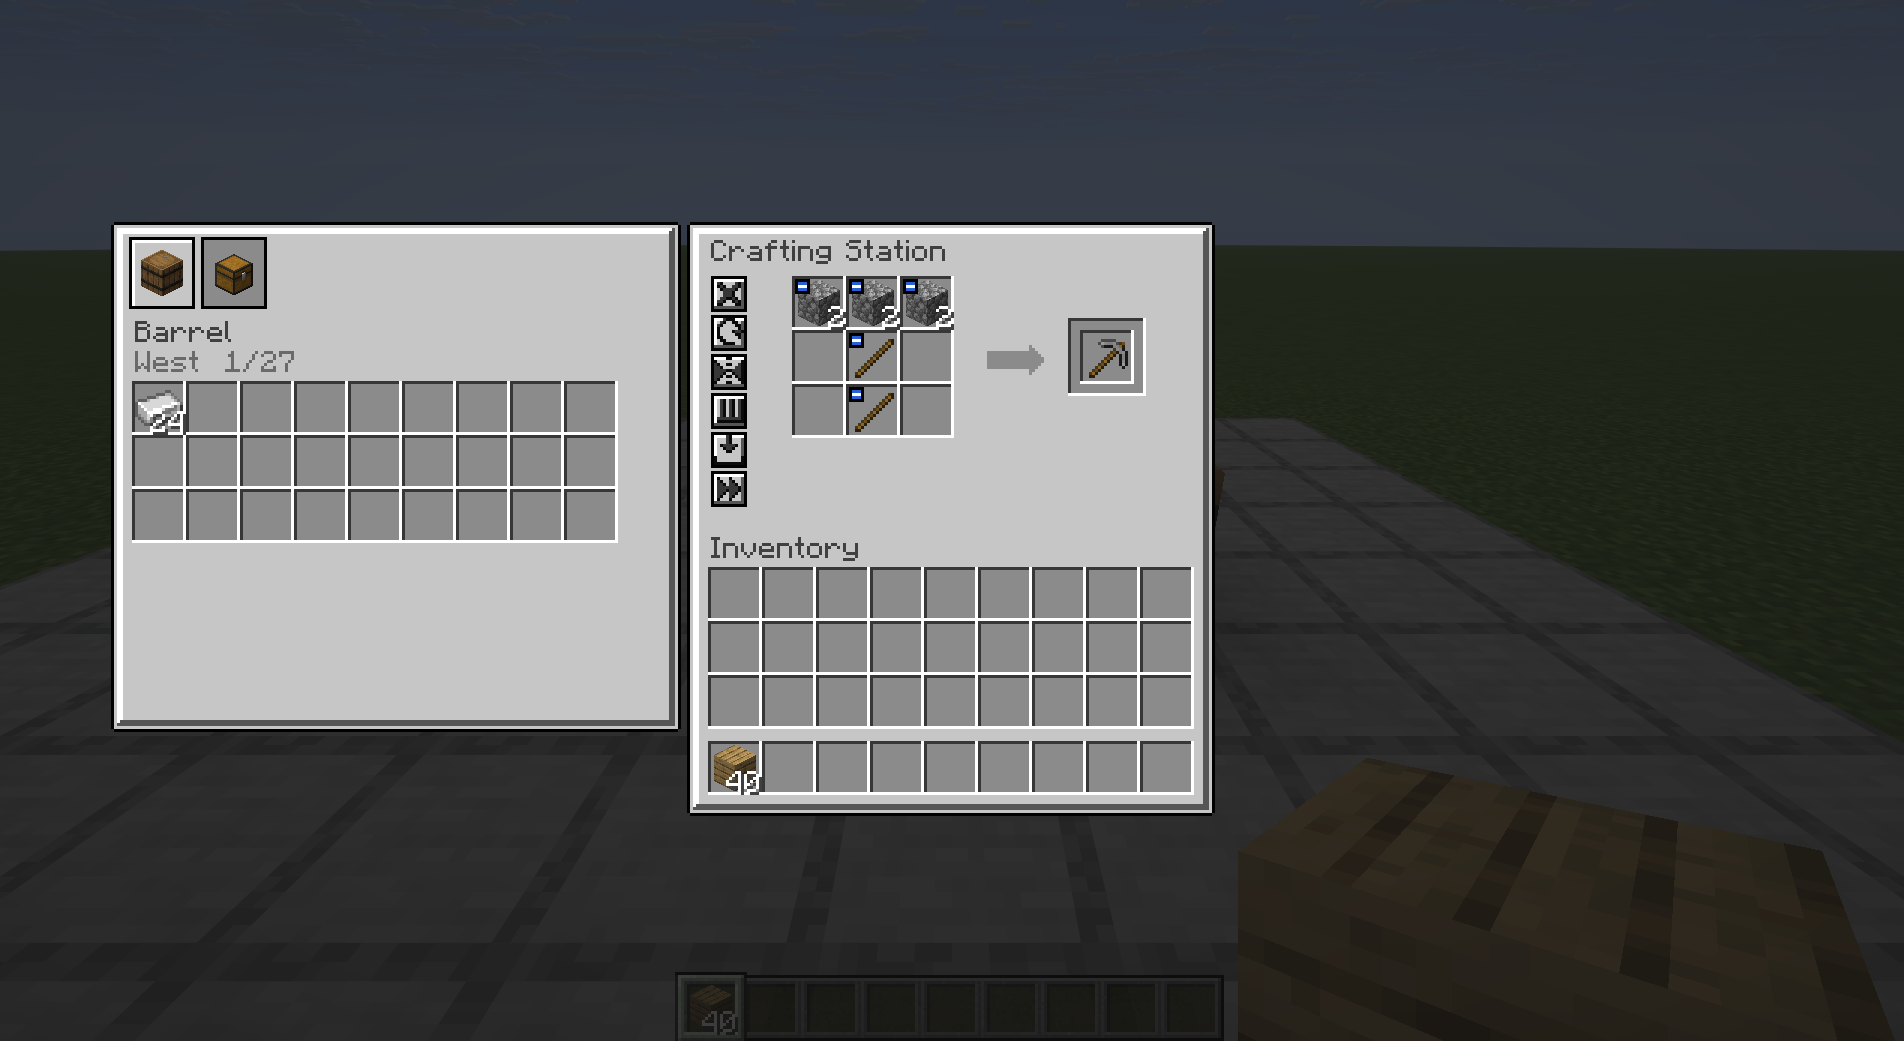
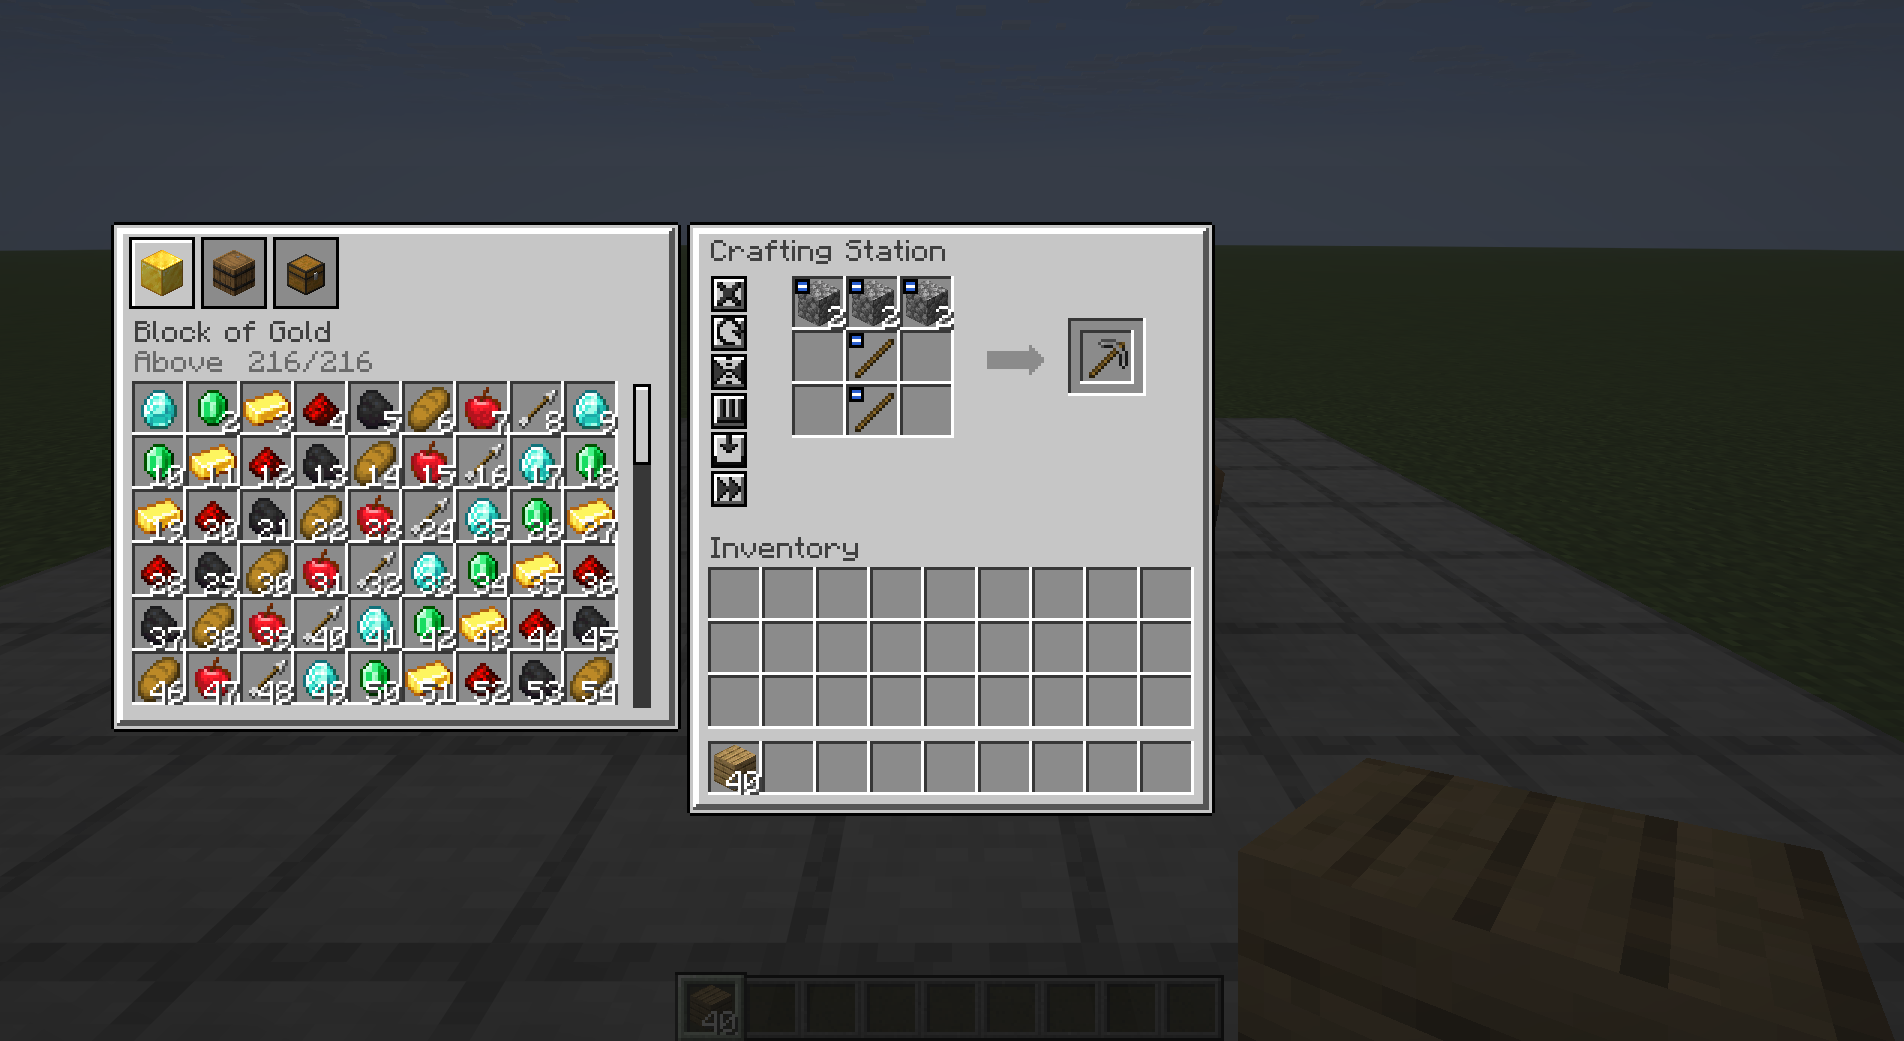
Tour: scrolled Connected panel next to a 216-slot dev storage; status

Changed region(s): [[0.062, 0.2152, 0.3409, 0.6763]]

diff --git a/version-26.2/src/dev/java/com/itmecasey/barelycrafting/dev/ShotTour.java b/version-26.2/src/dev/java/com/itmecasey/barelycrafting/dev/ShotTour.java
@@ -1,6 +1,8 @@
 package com.itmecasey.barelycrafting.dev;
 
 import com.itmecasey.barelycrafting.Dev;
+import com.itmecasey.barelycrafting.ExternalInventory;
+import com.itmecasey.barelycrafting.Inventories;
 import com.itmecasey.barelycrafting.ModContent;
 import com.itmecasey.barelycrafting.block.StationBlockEntity;
 import com.itmecasey.barelycrafting.menu.StationMenu;
@@ -158,6 +160,8 @@ public final class ShotTour {
         });
         then(4, () -> {
             server("fill -4 " + (y - 1) + " -4 6 " + (y - 1) + " 4 minecraft:smooth_stone");
+            installBigStorage();
+            server("setblock 0 " + (y + 1) + " 0 minecraft:gold_block");
             server("setblock 0 " + y + " 0 barelycrafting:crafting_station", "setblock 1 " + y + " 0 minecraft:chest[facing=west]",
                     "setblock -1 " + y + " 0 minecraft:barrel[facing=up]");
         });
@@ -192,7 +196,7 @@ public final class ShotTour {
         shoot("gui_tooltip_mirror", 50);
         // Rotate with the real button, then craft everything through the result slot.
         then(3, () -> hoverGuiAway());
-        then(3, () -> press(StationMenu.BTN_TAB + 1));
+        then(3, () -> press(StationMenu.BTN_TAB + 2));
         shoot("gui_chest_tab", 25);
         then(3, () -> press(StationMenu.BTN_ROTATE));
         shoot("gui_after_rotate", 25);
@@ -225,8 +229,65 @@ public final class ShotTour {
             LOGGER.info("BARELYCRAFTING-SHOTS after shift-click: pickaxes={} cobbleInChest={} gridEmpty={}", pick, cobble, be.grid.isEmpty());
         }));
         shoot("gui_after_craft", 15);
+        // The big storage: its tab, then the wheel scrolls its window down to row 12 and the mouse rests on an item.
+        then(3, () -> press(StationMenu.BTN_TAB));
+        then(15, () -> wheel(12));
+        then(25, () -> hoverViewSlot(10));
+        then(40, () -> LOGGER.info("BARELYCRAFTING-SHOTS big storage scroll row={} tab={} first={}", menu().viewScroll(), menu().selectedTab(), menu().slots.get(StationMenu.PLAYER_END).getItem()));
+        shoot("gui_scrolled_big_storage", 10);
         then(2, () -> close());
         then(20, () -> quit(Minecraft.getInstance()));
+    }
+
+    /** A dev-only 216-slot storage standing in for a modded one (vanilla has nothing over 54 slots). Read-only: nothing can be taken or put in. */
+    private static final class BigStorage implements ExternalInventory {
+        private static final net.minecraft.world.item.Item[] ITEMS = {Items.DIAMOND, Items.EMERALD, Items.GOLD_INGOT, Items.REDSTONE, Items.COAL, Items.BREAD, Items.APPLE, Items.ARROW};
+
+        @Override
+        public int slots() {
+            return 216;
+        }
+
+        @Override
+        public ItemStack get(int slot) {
+            return new ItemStack(ITEMS[slot % ITEMS.length], slot % 63 + 1);
+        }
+
+        @Override
+        public ItemStack insert(ItemStack stack, boolean simulate) {
+            return stack;
+        }
+
+        @Override
+        public ItemStack extract(int slot, int amount, boolean simulate) {
+            return ItemStack.EMPTY;
+        }
+    }
+
+    private static void installBigStorage() {
+        Inventories.Finder base = Inventories.loaderFinder;
+        Inventories.loaderFinder = (level, pos, face) -> level.getBlockState(pos).is(net.minecraft.world.level.block.Blocks.GOLD_BLOCK) ? new BigStorage() : base.find(level, pos, face);
+    }
+
+    /** Scrolls the open screen with the mouse wheel through the screen's own handler, as a player would over the Connected panel. */
+    private static void wheel(int clicks) {
+        var screen = Minecraft.getInstance().gui.screen();
+        if (screen instanceof com.itmecasey.barelycrafting.client.StationScreen station) {
+            double x = station.guiLeft() - 192 + 60;
+            double y = station.guiTop() + 100;
+            for (int i = 0; i < clicks; i++) {
+                station.mouseScrolled(x, y, 0.0, -1.0);
+            }
+        }
+    }
+
+    private static void hoverViewSlot(int k) {
+        var screen = Minecraft.getInstance().gui.screen();
+        var m = menu();
+        if (m != null && screen instanceof com.itmecasey.barelycrafting.client.StationScreen station) {
+            var slot = m.slots.get(StationMenu.PLAYER_END + k);
+            moveMouseGui(station.guiLeft() + slot.x + 8, station.guiTop() + slot.y + 8);
+        }
     }
 
     // ---- helpers ----

diff --git a/version-26.3/src/dev/java/com/itmecasey/barelycrafting/dev/ShotTour.java b/version-26.3/src/dev/java/com/itmecasey/barelycrafting/dev/ShotTour.java
@@ -1,6 +1,8 @@
 package com.itmecasey.barelycrafting.dev;
 
 import com.itmecasey.barelycrafting.Dev;
+import com.itmecasey.barelycrafting.ExternalInventory;
+import com.itmecasey.barelycrafting.Inventories;
 import com.itmecasey.barelycrafting.ModContent;
 import com.itmecasey.barelycrafting.block.StationBlockEntity;
 import com.itmecasey.barelycrafting.menu.StationMenu;
@@ -158,6 +160,8 @@ public final class ShotTour {
         });
         then(4, () -> {
             server("fill -4 " + (y - 1) + " -4 6 " + (y - 1) + " 4 minecraft:smooth_stone");
+            installBigStorage();
+            server("setblock 0 " + (y + 1) + " 0 minecraft:gold_block");
             server("setblock 0 " + y + " 0 barelycrafting:crafting_station", "setblock 1 " + y + " 0 minecraft:chest[facing=west]",
                     "setblock -1 " + y + " 0 minecraft:barrel[facing=up]");
         });
@@ -192,7 +196,7 @@ public final class ShotTour {
         shoot("gui_tooltip_mirror", 50);
         // Rotate with the real button, then craft everything through the result slot.
         then(3, () -> hoverGuiAway());
-        then(3, () -> press(StationMenu.BTN_TAB + 1));
+        then(3, () -> press(StationMenu.BTN_TAB + 2));
         shoot("gui_chest_tab", 25);
         then(3, () -> press(StationMenu.BTN_ROTATE));
         shoot("gui_after_rotate", 25);
@@ -225,8 +229,65 @@ public final class ShotTour {
             LOGGER.info("BARELYCRAFTING-SHOTS after shift-click: pickaxes={} cobbleInChest={} gridEmpty={}", pick, cobble, be.grid.isEmpty());
         }));
         shoot("gui_after_craft", 15);
+        // The big storage: its tab, then the wheel scrolls its window down to row 12 and the mouse rests on an item.
+        then(3, () -> press(StationMenu.BTN_TAB));
+        then(15, () -> wheel(12));
+        then(25, () -> hoverViewSlot(10));
+        then(40, () -> LOGGER.info("BARELYCRAFTING-SHOTS big storage scroll row={} tab={} first={}", menu().viewScroll(), menu().selectedTab(), menu().slots.get(StationMenu.PLAYER_END).getItem()));
+        shoot("gui_scrolled_big_storage", 10);
         then(2, () -> close());
         then(20, () -> quit(Minecraft.getInstance()));
+    }
+
+    /** A dev-only 216-slot storage standing in for a modded one (vanilla has nothing over 54 slots). Read-only: nothing can be taken or put in. */
+    private static final class BigStorage implements ExternalInventory {
+        private static final net.minecraft.world.item.Item[] ITEMS = {Items.DIAMOND, Items.EMERALD, Items.GOLD_INGOT, Items.REDSTONE, Items.COAL, Items.BREAD, Items.APPLE, Items.ARROW};
+
+        @Override
+        public int slots() {
+            return 216;
+        }
+
+        @Override
+        public ItemStack get(int slot) {
+            return new ItemStack(ITEMS[slot % ITEMS.length], slot % 63 + 1);
+        }
+
+        @Override
+        public ItemStack insert(ItemStack stack, boolean simulate) {
+            return stack;
+        }
+
+        @Override
+        public ItemStack extract(int slot, int amount, boolean simulate) {
+            return ItemStack.EMPTY;
+        }
+    }
+
+    private static void installBigStorage() {
+        Inventories.Finder base = Inventories.loaderFinder;
+        Inventories.loaderFinder = (level, pos, face) -> level.getBlockState(pos).is(net.minecraft.world.level.block.Blocks.GOLD_BLOCK) ? new BigStorage() : base.find(level, pos, face);
+    }
+
+    /** Scrolls the open screen with the mouse wheel through the screen's own handler, as a player would over the Connected panel. */
+    private static void wheel(int clicks) {
+        var screen = Minecraft.getInstance().gui.screen();
+        if (screen instanceof com.itmecasey.barelycrafting.client.StationScreen station) {
+            double x = station.guiLeft() - 192 + 60;
+            double y = station.guiTop() + 100;
+            for (int i = 0; i < clicks; i++) {
+                station.mouseScrolled(x, y, 0.0, -1.0);
+            }
+        }
+    }
+
+    private static void hoverViewSlot(int k) {
+        var screen = Minecraft.getInstance().gui.screen();
+        var m = menu();
+        if (m != null && screen instanceof com.itmecasey.barelycrafting.client.StationScreen station) {
+            var slot = m.slots.get(StationMenu.PLAYER_END + k);
+            moveMouseGui(station.guiLeft() + slot.x + 8, station.guiTop() + slot.y + 8);
+        }
     }
 
     // ---- helpers ----

diff --git a/PROJECT_STATUS.md b/PROJECT_STATUS.md
@@ -14,7 +14,7 @@ Spend: none
 - [x] Block, block entity and menu with a persistent 3x3 grid (saved per slot, drops on break) (w:4)
 - [x] Result slot: click, shift-click craft-max, leftovers, full inventory, mismatched cursor (w:4)
 - [x] Crafting from neighboring storages (six sides, set order, grid first then neighbors, refill) (w:5)
-- [x] Connected panel: block-icon tab per storage, real slots, per-storage scrolling (scroll math unit-tested; the scrolling itself not seen on a storage over 54 slots) (w:4)
+- [x] Connected panel: block-icon tab per storage, real slots, per-storage wheel and bar scrolling, windowed sync, no cap on storages or slots; seen scrolled next to a dev-only 216-slot storage on NeoForge 26.2 and Forge 26.3 (w:4)
 - [x] Button column: clear, rotate, mirror, balance, refill, craft all, tooltips on top, config switches (w:4)
 - [x] BEI plus button fills the grid (compiled; the BEI transfer itself not run in a client) (w:2)
 
